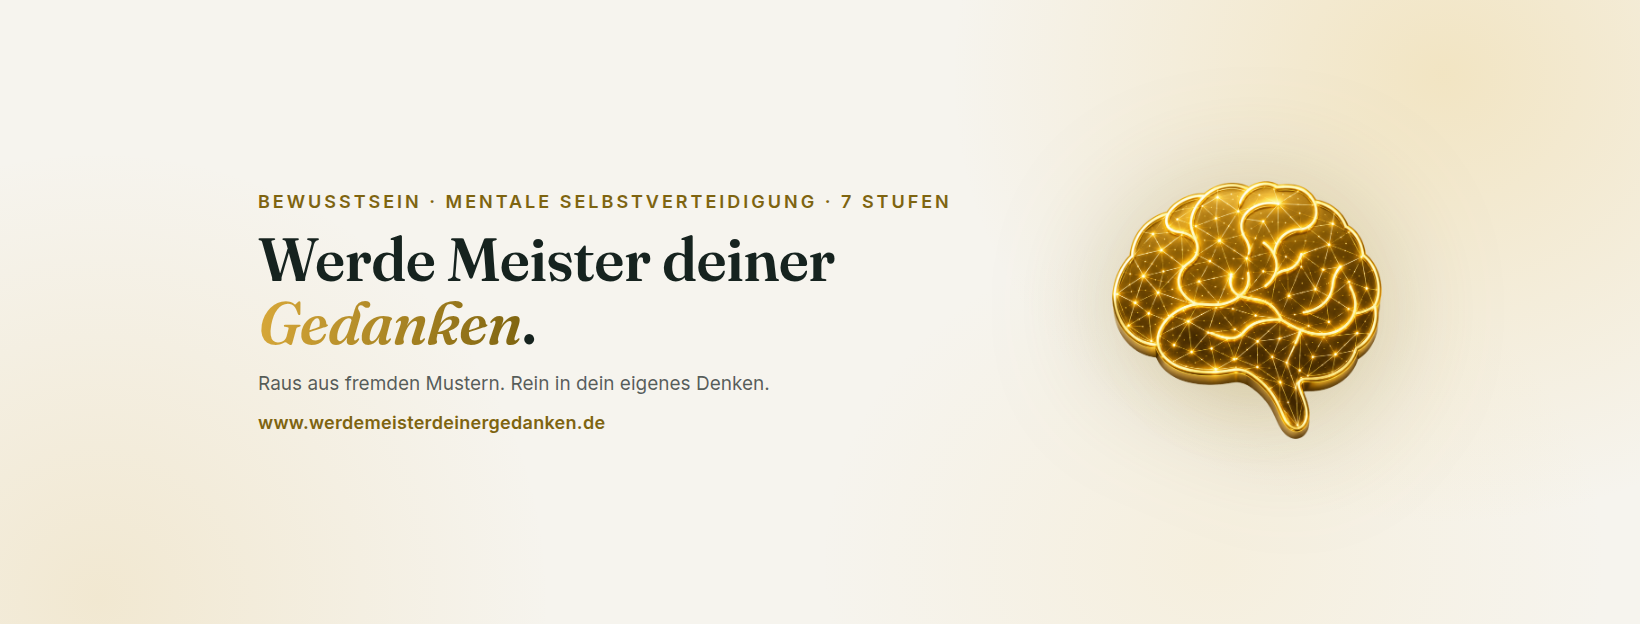
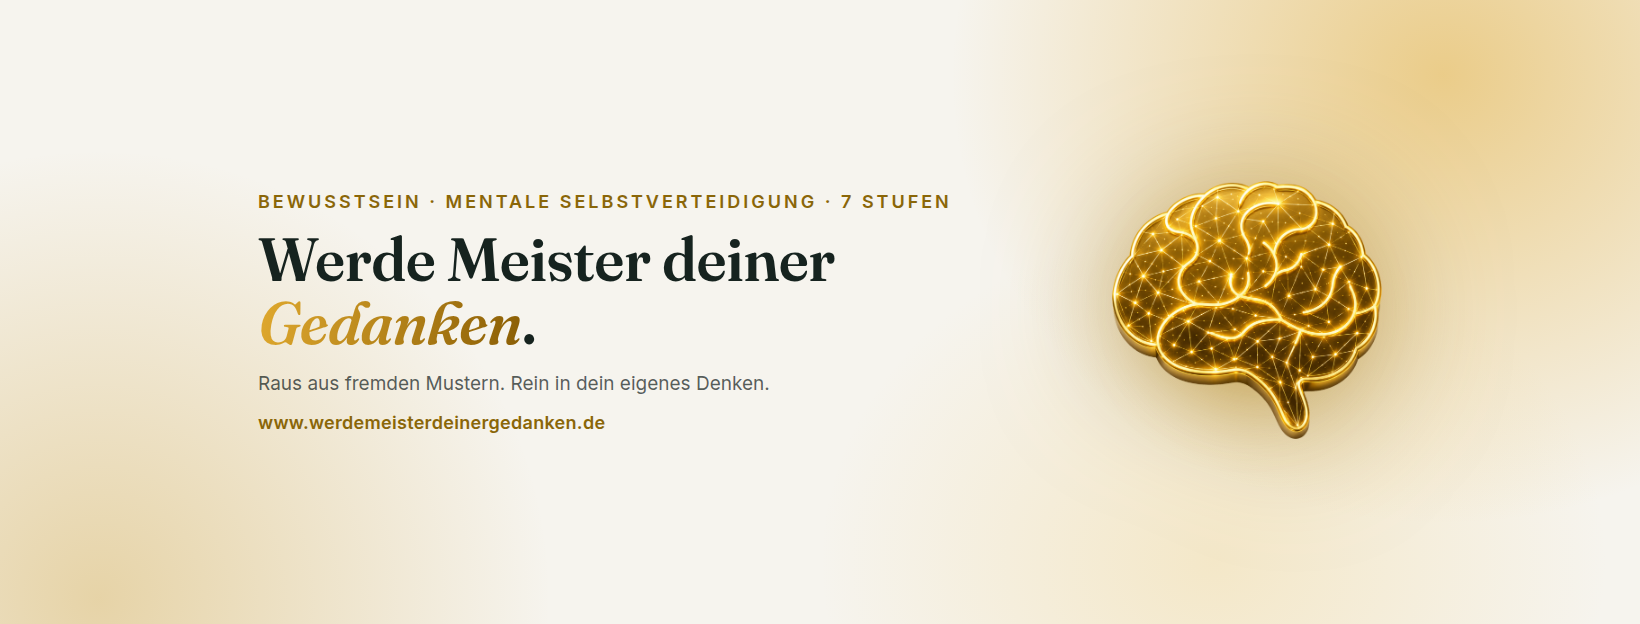
Facebook-Cover (Creme): kräftigeres Gold + stärkerer Glow
Per-Target-Override palHell eingeführt, um die helle Creme-Palette
gezielt fürs Facebook-Cover zu verstärken (satteres Gold bei Akzent,
Eyebrow, URL; intensiverer Hintergrund- und Gehirn-Glow). Andere Kanäle
bleiben unverändert. Doku ergänzt.

Claude-Session: https://claude.ai/code/session_01MfXh5LVCDsqPv1vEBk7GZL

Changed region(s): [[0.653, 0.0, 1.0, 0.7612], [0.0, 0.6394, 0.1866, 1.0]]

diff --git a/docs/generatoren/marketing-und-galerie.md b/docs/generatoren/marketing-und-galerie.md
@@ -40,7 +40,9 @@ Gemeinsame Assets: `tools/pdf/assets/fonts.css` bzw.
   Qualität, dank `retina`-Flag), `instagram/WMDG-Instagram-Story.png`,
   `instagram/WMDG-Instagram-Story-Logo.png`. Banner mit `retina: true`
   (LinkedIn, WhatsApp, Facebook) werden zusätzlich in doppelter Auflösung
-  (`…@2x.png`) ausgegeben.
+  (`…@2x.png`) ausgegeben. Ein Target kann per `palHell`-Feld die helle
+  Creme-Palette gezielt überschreiben (z. B. Facebook: kräftigeres Gold +
+  stärkerer Glow), ohne die anderen Kanäle zu verändern.
 - **Verbundene Komponenten:** speist mittelbar die Galerie (`build-gallery.mjs →
   buildSocial()` liest alle `docs/marketing/**/*.png`).
 - **Stolperfalle:** temporäre `.<key>.html` liegen kurz im Quellordner; bei
